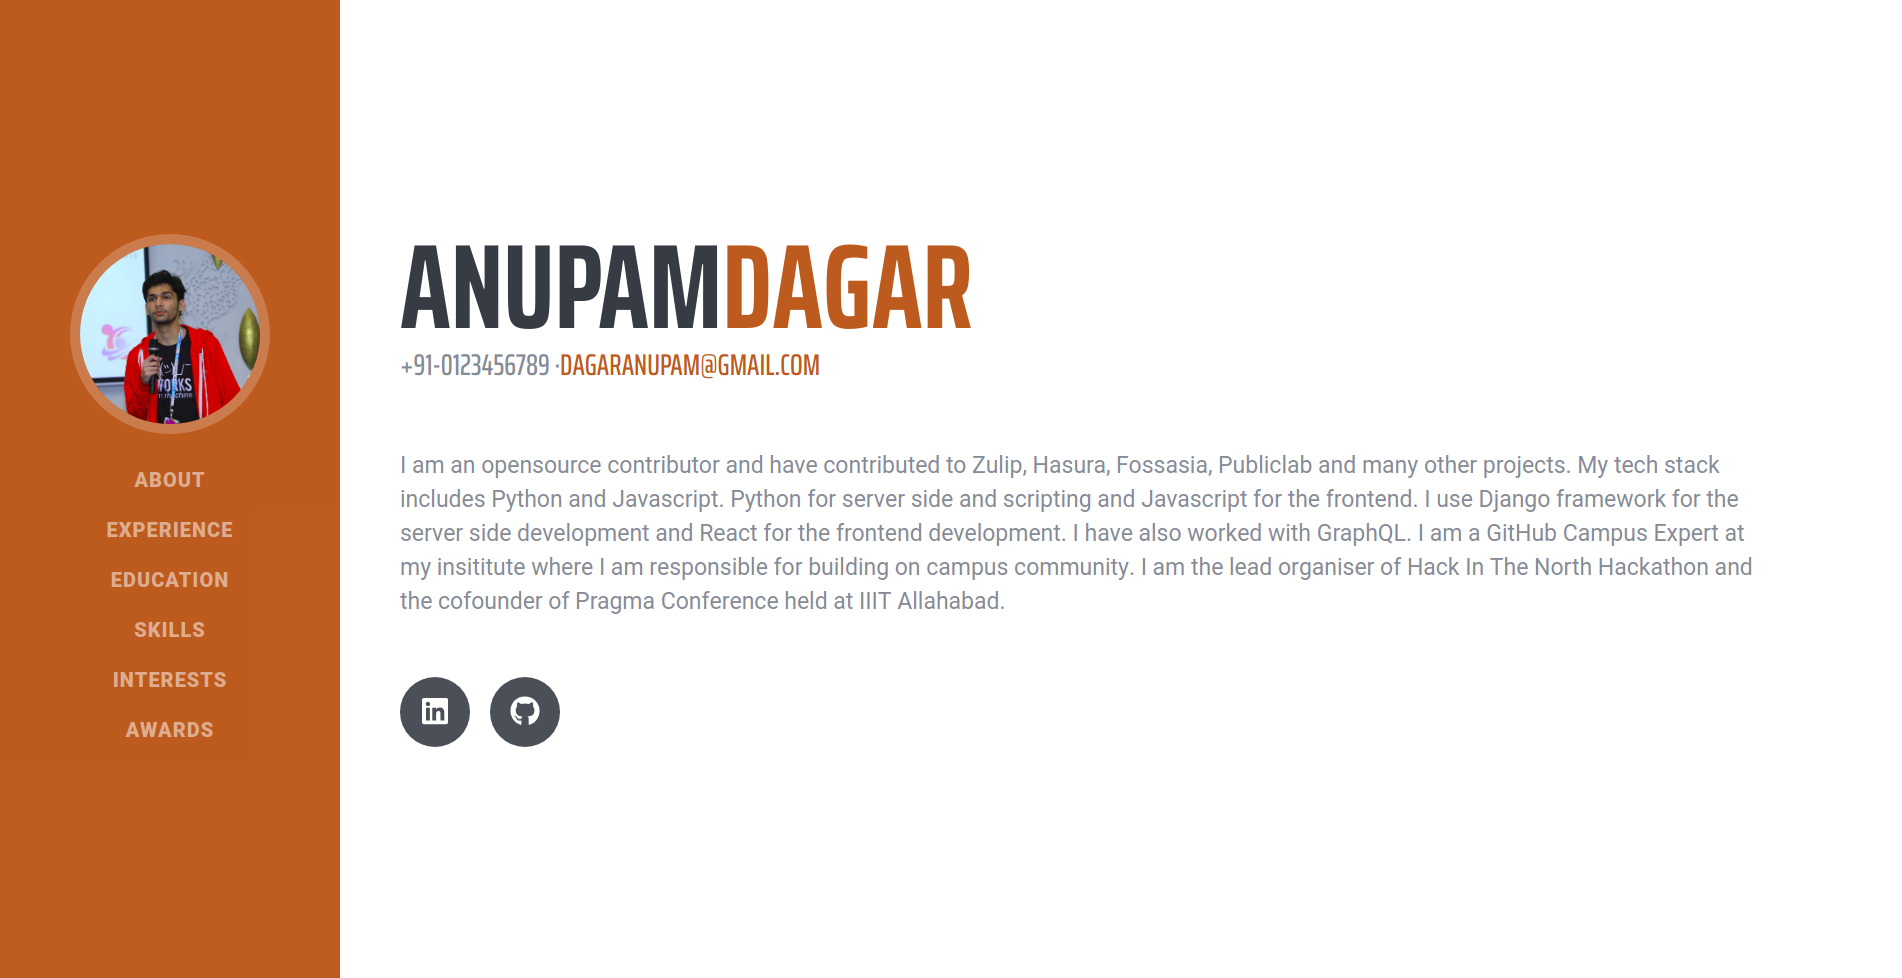
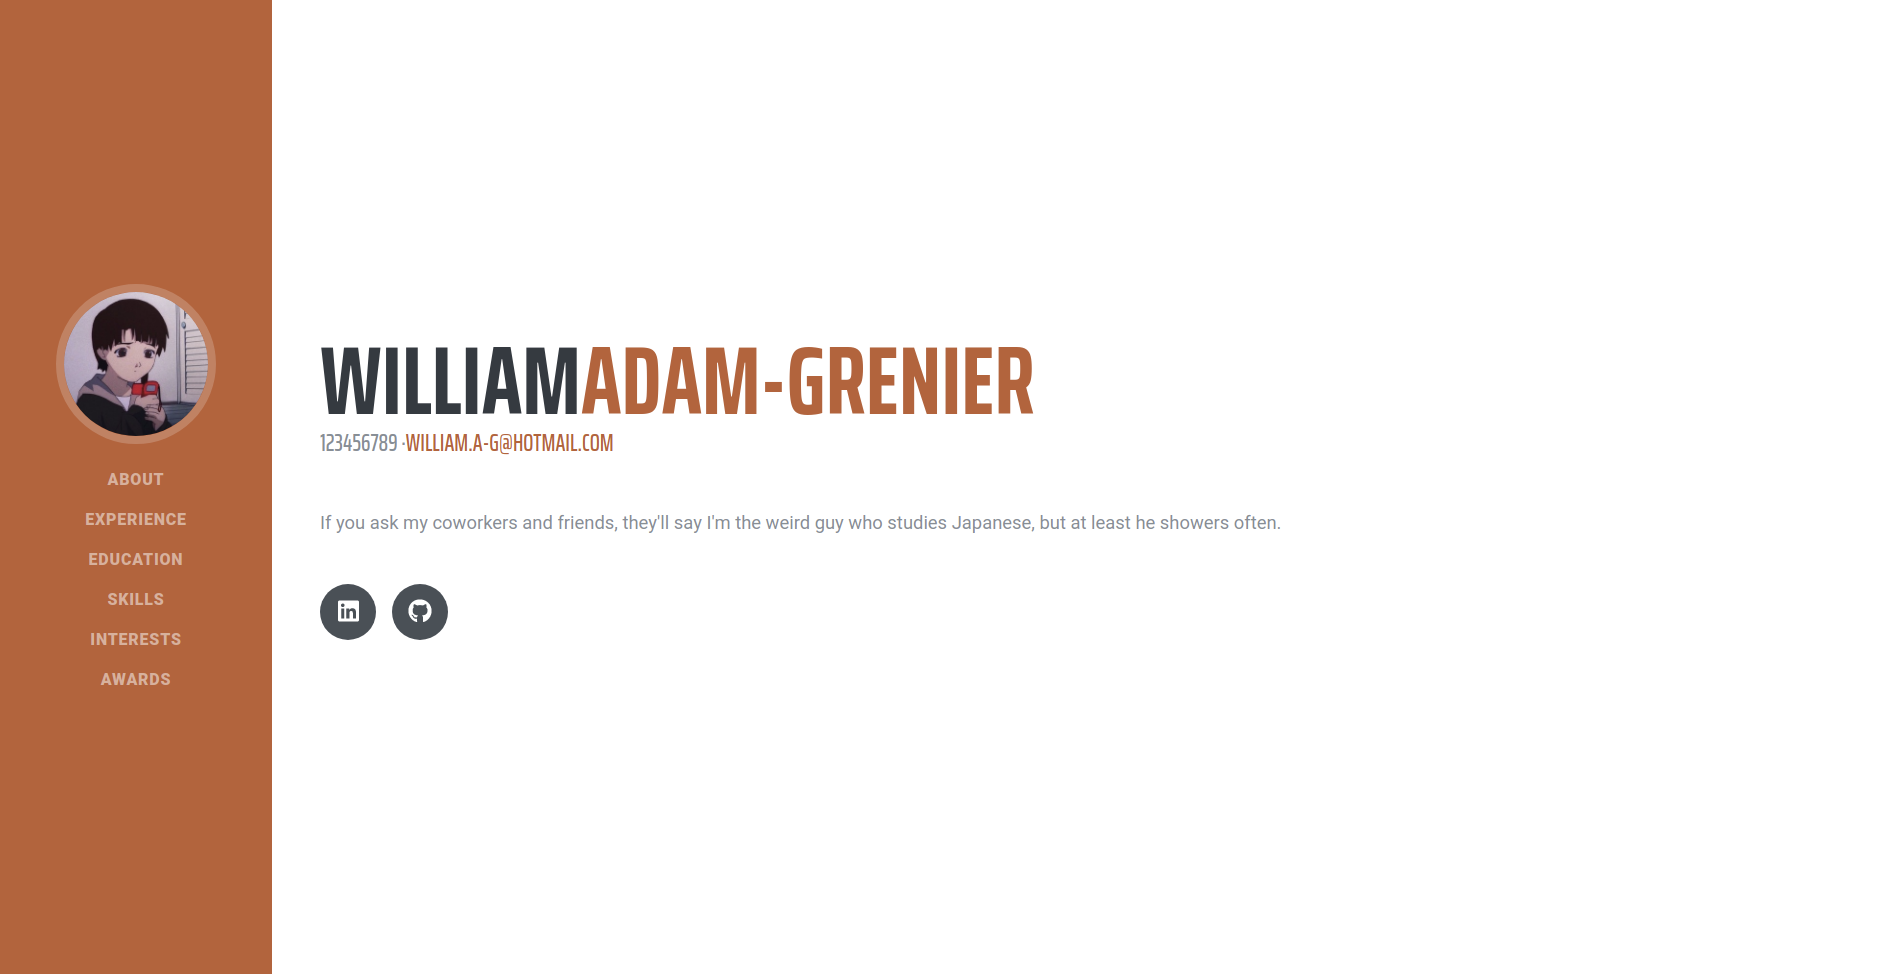
Adapted Info To Me

Changed region(s): [[0.0, 0.0, 0.9306, 1.0]]

diff --git a/src/Components/Education.js b/src/Components/Education.js
@@ -18,7 +18,6 @@ class Education extends Component {
                 <div className="resume-content">
                   <h3 className="mb-0">{data.university}</h3>
                   <div className="subheading mb-3">{data.degree}</div>
-                  <p>{data.gpa}</p>
                 </div>
                 <div className="resume-date text-md-right">
                   <span className="text-primary">{data.fromDate} - {data.toDate}</span>

diff --git a/public/index.html b/public/index.html
@@ -2,6 +2,7 @@
 <html lang="en">
   <head>
     <meta charset="utf-8" />
+    <!-- Created by Flaticon License, Freeplk-->
     <link rel="shortcut icon" href="%PUBLIC_URL%/favicon.ico" />
     <meta name="viewport" content="width=device-width, initial-scale=1" />
     <meta name="theme-color" content="#000000" />

diff --git a/README.md b/README.md
@@ -1,16 +1,10 @@
 # Portfolio
 ## Built using React and tools from GitHub Student Developer Pack.
 
-![Header Image](./mainimage.png)
-
-This is a tutorial on building a portfolio website using React and tools from the GitHub Student Developer Pack. Tools used from the **GitHub Student Developer Pack** are **Heroku**, **Namecheap** and **GitHub**.  
-
-The hosted version of this repository is live at [http://anupamdagar.com/GitHub-Education-Portfolio](http://anupamdagar.com/GitHub-Education-Portfolio)
-
 ![landing page image](./landing.png)
 
 ## Steps to run locally
-1. Clone the repository using `git clone https://github.com/Anupam-dagar/GitHub-Education-Portfolio.git`
+1. Clone the repository using `git clone https://github.com/wagrenier/williamportfolio.git`
 2. `cd` into the cloned repository and run `yarn`. This will install all the dependencies required for the project.
 3. Run the server using `yarn start`.
 4. Create your own portfolio by editing the `profileData.json` present in the `src` directory.
